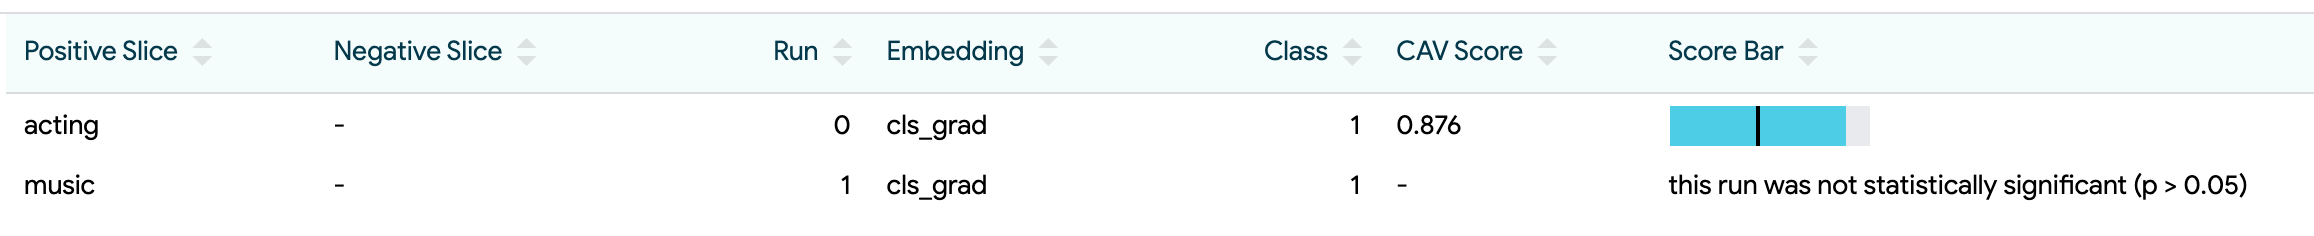
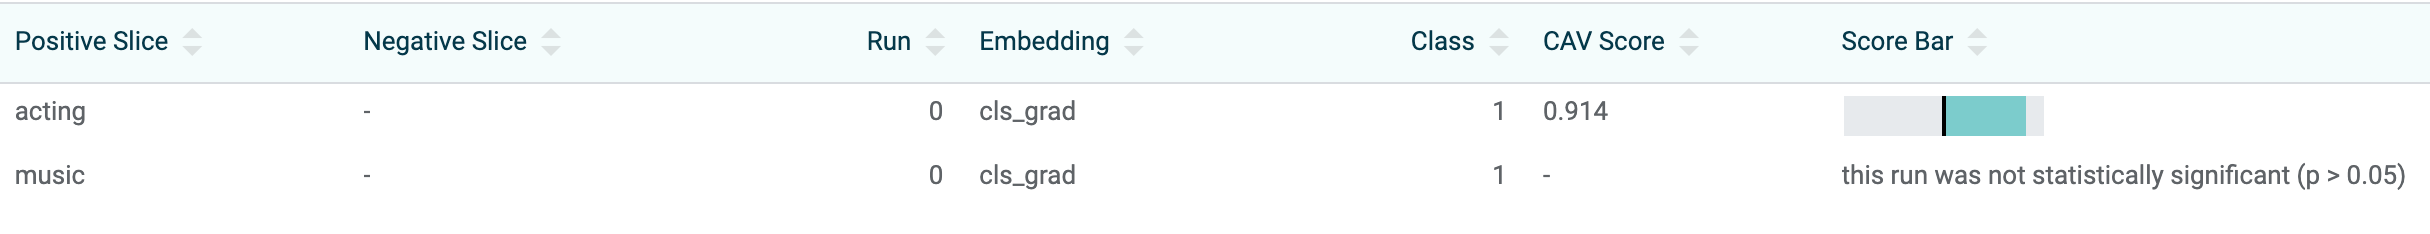
TCAV score bar now conveys magnitude relative to the baseline + aligns colors
PiperOrigin-RevId: 412113394

diff --git a/lit_nlp/client/elements/tcav_score_bar.ts b/lit_nlp/client/elements/tcav_score_bar.ts
@@ -37,6 +37,8 @@ export class TcavScoreBar extends LitElement {
           position: relative;
           display: flex;
           min-width: 100px;
+          min-height: 20px;
+          background-color: var(--lit-neutral-200);
         }
 
         .separator {
@@ -47,39 +49,32 @@ export class TcavScoreBar extends LitElement {
         }
 
         .pos-bar {
-          background-color: #4ECDE6;
           min-height: 20px;
-        }
-
-        .pos-blank {
-          background-color: #E8EAED;
-          min-height: 20px;
+          position: absolute;
+          background-color: var(--lit-cyea-300);
         }
     `;
   }
 
   override render() {
-    const score = this.score;
-    const clampVal = this.clampVal;
-    const meanVal = this.meanVal;
+    const {score, clampVal, meanVal} = this;
+    const normalizedScore = Math.min(Math.max(score, 0), clampVal) / clampVal;
+    const normalizedMean = Math.min(Math.max(meanVal, 0), clampVal) / clampVal;
 
-    const stylePosBlank: {[name: string]: string} = {};
-    stylePosBlank['width'] =
-        `${(1 - Math.min(Math.max(score, 0), clampVal) / clampVal) * 100}%`;
+    const stylePosBar: {[name: string]: string} = {
+      'width': `${Math.abs(normalizedScore - normalizedMean) * 100}%`,
+      'left': normalizedScore > normalizedMean ? `${normalizedMean * 100}%` :
+                                                 `${normalizedScore * 100}%`
+    };
 
-    const stylePosBar: {[name: string]: string} = {};
-    stylePosBar['width'] =
-        `${Math.min(Math.max(score, 0), clampVal) / clampVal * 100}%`;
-
-    const styleSep: {[name: string]: string} = {};
-    styleSep['left'] =
-        `${Math.min(Math.max(meanVal, 0), clampVal) / clampVal * 100}%`;
+    const styleSep: {[name: string]: string} = {
+      'left': `${normalizedMean * 100}%`
+    };
 
     return html`<td><div class='cell'>
-        <div class='separator' style='${styleMap(styleSep)}'></div>
         <div class='pos-bar' style='${styleMap(stylePosBar)}'></div>
-        <div class='pos-blank' style='${styleMap(stylePosBlank)}'></div>
-        </div></td>`;
+        <div class='separator' style='${styleMap(styleSep)}'></div>
+      </div></td>`;
   }
 }
 

diff --git a/website/src/tutorials/tcav.md b/website/src/tutorials/tcav.md
@@ -65,11 +65,11 @@ For our use-case, we click on our “acting” slice as the concept to test, and
 
 #### Interpreting TCAV scores
 
-Once we run TCAV, we see an entry in the table in the TCAV module for each concept tested. Each concept gets a CAV (“Concept Activation Vector”) score between 0 and 1 describing the concept’s effect on the prediction of the class in question. What you want to look at is where the blue bar (CAV score) is relative to the black line (reference point). The reference point indicates the effect that slices made of randomly-chosen datapoints outside of the concept being tested has on prediction of the class. For a well-calibrated classifier, the reference point will usually be near 0.5 (i.e. no effect).
+Once we run TCAV, we see an entry in the table in the TCAV module for each concept tested. Each concept gets a CAV (“Concept Activation Vector”) score between 0 and 1 describing the concept’s effect on the prediction of the class in question. What matters is where the blue bar (CAV score) is relative to the black line (reference point). The reference point indicates the effect that slices made of randomly-chosen datapoints outside of the concept being tested has on prediction of the class. For a well-calibrated classifier, the reference point will usually be near 0.5 (i.e. no effect).
 
-A blue bar extending beyond or falling short of the black line means the concept is influencing the prediction. If the blue bar extends beyond the black line, the concept is positively influencing the prediction; if it falls short, it is negatively influencing.
+A blue bar extending right or left of the black line means the concept is influencing the prediction. If the blue bar extends to the right of the black line, the concept is positively influencing the prediction. Conversely, if the bar extended to the left, it is negatively influencing. In either case, the larger the bar, the greater the influence.
 
-In our example, the CAV score of ~.85 indicates that our “acting” concept has a strong positive effect on the prediction of this class. So we have found that this concept has a positive effect on predicting positive sentiment for our classifier.
+In our example, the CAV score of ~0.91 indicates that our “acting” concept has a strong positive effect on the prediction of this class. So we have found that this concept has a positive effect on predicting positive sentiment for our classifier.
 
 {% include partials/inset-image image: '/assets/images/tcav_result.png', 
   caption: 'TCAV results for our “acting” concept'%}

diff --git a/documentation/components.md b/documentation/components.md
@@ -631,12 +631,12 @@ Every dataset/model is different, but for images, as low as 15 data points are
 shown to be sufficient. Start by adding at least 3 data points and add more as
 needed
 
-For this example, we select all examples containing the word 'humor' in the data
-table.
+For this example, we select all examples related to acting in the data table
+using the selector `acting|actor|actress`.
 
 ![Data table - select examples](./images/components/tcav-search-examples.png)<!-- DO NOT REMOVE {style="max-width:400px"} -->
 
-2.) Next, name the slice and click 'Create slice'.
+2.) Next, name the slice `acting` and click 'Create slice'.
 
 ![Slice](./images/components/tcav-create-slice.png)<!-- DO NOT REMOVE {style="max-width:280px"} -->
 
@@ -651,11 +651,11 @@ selected slice's examples against those in the negative slice.
 ![TCAV1](./images/components/tcav-select-slice.png)<!-- DO NOT REMOVE {style="max-width:800px"} -->
 
 When the run is complete (usually after a few seconds), the results are
-displayed in the table. In this example, the TCAV score is ~0.8, which is higher
-than the baseline indicated by the black bar. (Technically, the baseline
-represents 'null hypothesis', calculated with random concepts.) From this, we
-gather that the humor concept positively influences the prediction class 1, or
-positive sentiment.
+displayed in the table. In this example, the TCAV score is ~0.9 (shown by the
+blue bar in the score bar), which is higher than the baseline (shown as the
+black bar in the score bar ), indicating that the acting concept positively
+influences the prediction class 1, or positive sentiment. (Technically, the
+baseline represents 'null hypothesis', calculated with random concepts.)
 
 ![TCAV2](./images/components/tcav-results-table.png)<!-- DO NOT REMOVE {style="max-width:800px"} -->
 
